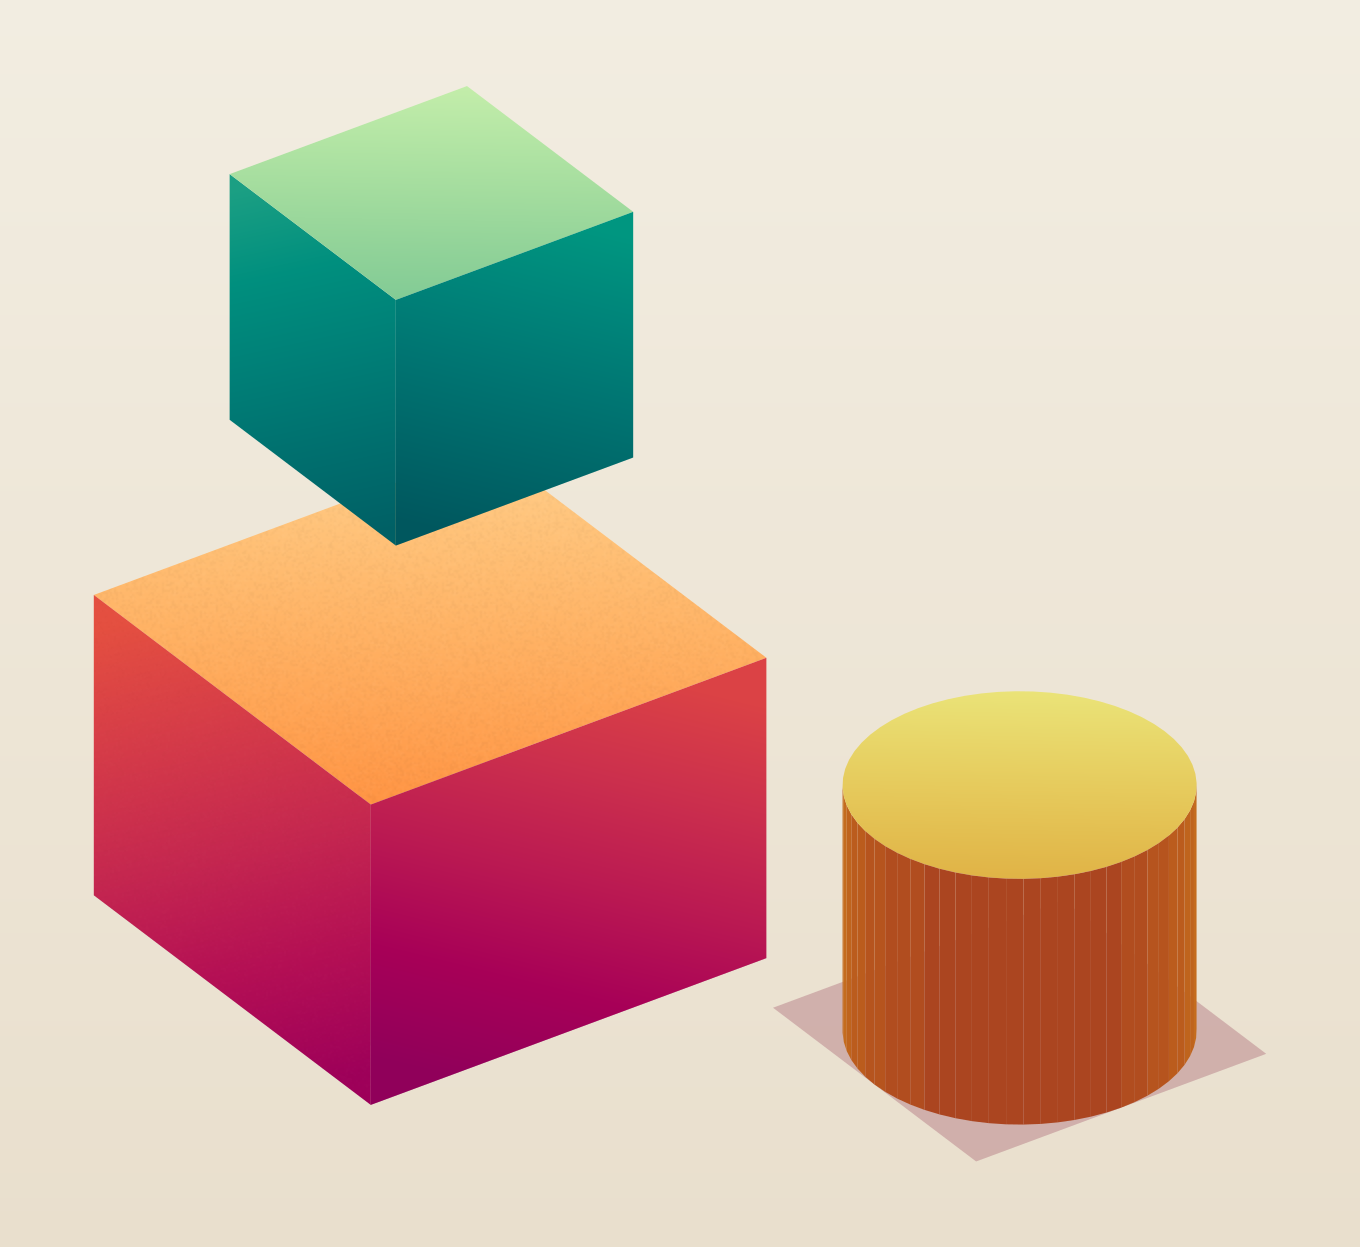
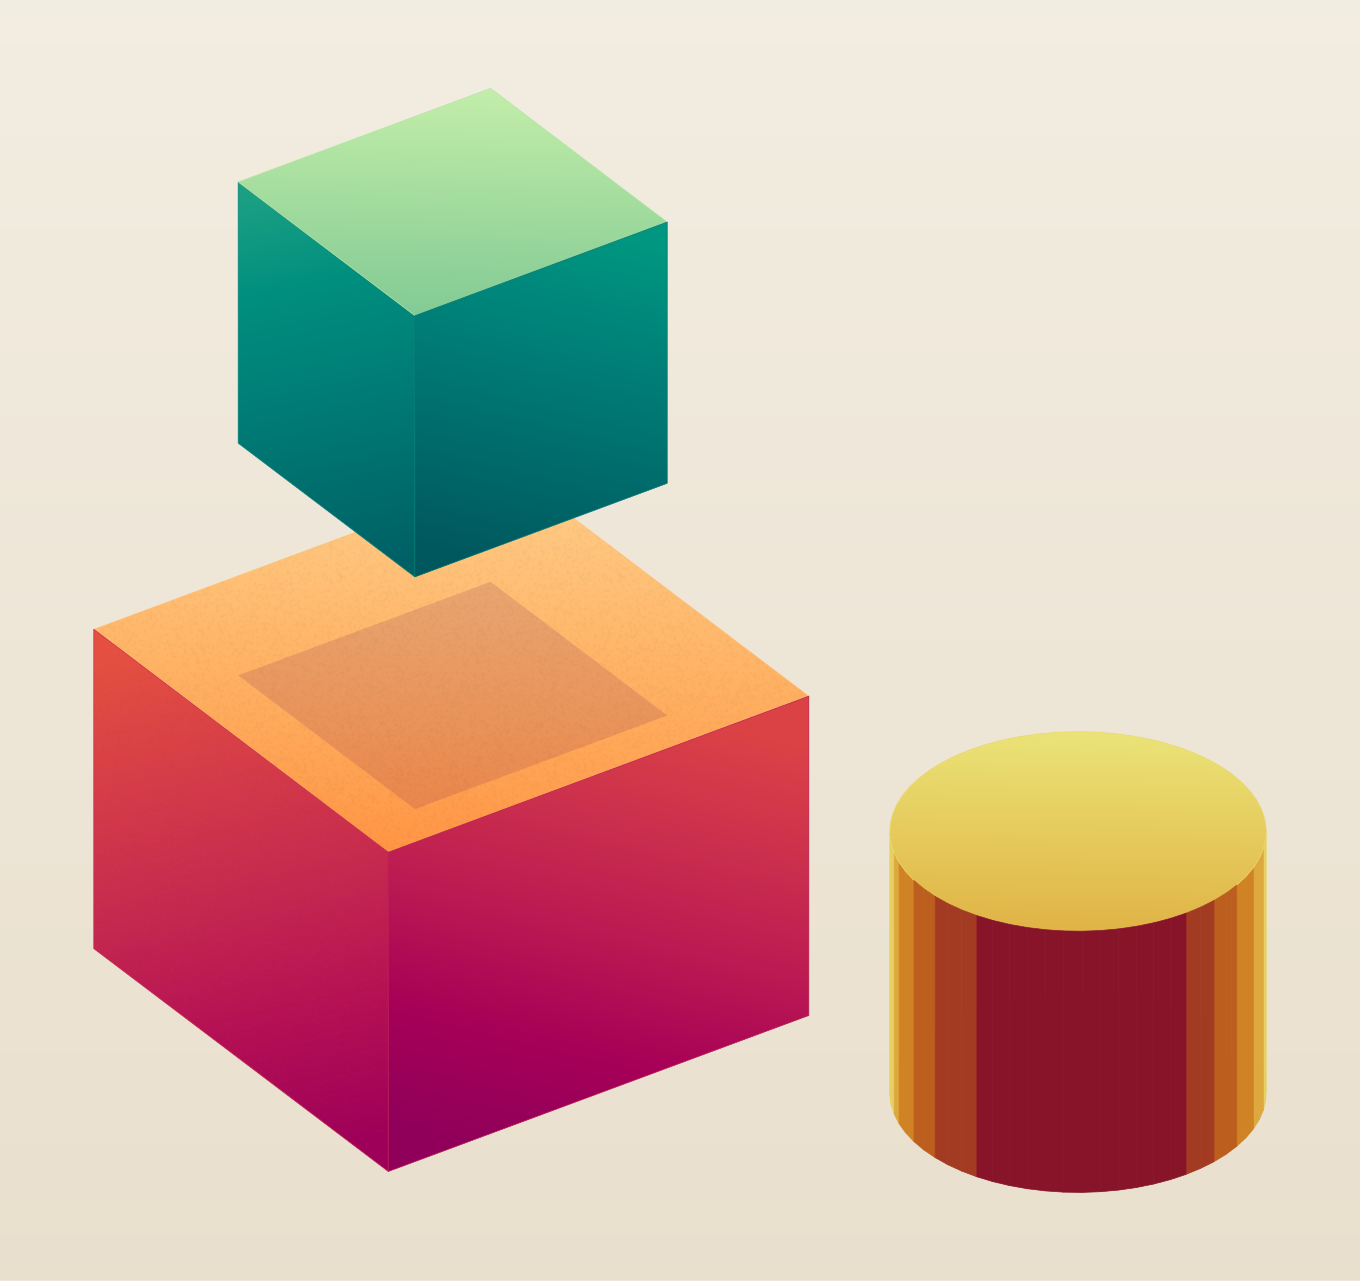
demo: gradient-shaded solids still life; seam seal, span banding, biased shadows
Cylinder posterizes the full ramp across its visible sweep; faces seal
with self-colored hairlines (no antialiasing pinstripes); drop_shadow
gains depth_bias so a floating solid shades the face below it. Gates
green; corpus regression untouched.

diff --git a/src/figlib/surface3d.py b/src/figlib/surface3d.py
@@ -257,19 +257,30 @@ def as_floor(group: list[tuple[float, object]]) -> list[tuple[float, object]]:
 
 def drop_shadow(pts3: np.ndarray, cam: Camera, z0: float = 0.0,
                 opacity: float = 0.16, color: str | None = None,
-                role: Role = Role.MUTED) -> list[tuple[float, FilledCurve]]:
+                role: Role = Role.MUTED,
+                depth_bias: float | None = None) -> list[tuple[float, FilledCurve]]:
     """Contact shadow: the convex hull of the geometry's vertical footprint
     on the plane z=z0, projected and depth-tagged strictly behind every
     point of the geometry — the cue that places a floating object ON its
-    floor (compose() after as_floor ground, before the object)."""
+    floor (compose() after as_floor ground, before the object).
+
+    depth_bias=None keeps that strictly-behind tag. A positive value tags
+    the shadow at its own mean depth + bias instead — for a shadow cast
+    onto another object's TOP FACE (same plane, so same mean depth): the
+    bias paints it over its carrier face, while the caster above remains
+    strictly nearer.
+    """
     from scipy.spatial import ConvexHull
 
     pts3 = np.asarray(pts3, dtype=float)
     foot = pts3[ConvexHull(pts3[:, :2]).vertices, :2]
     shadow3 = np.column_stack([foot, np.full(len(foot), z0)])
     pts2, depth = project(shadow3, cam)
-    # min footprint depth <= min object depth (same xy, z above the floor
-    # for elev > 0), so this tag paints before every object quad
-    tag = float(depth.min()) - 1e-3 * (float(np.ptp(depth)) + 1e-9)
+    if depth_bias is not None:
+        tag = float(depth.mean()) + depth_bias
+    else:
+        # min footprint depth <= min object depth (same xy, z above the
+        # floor for elev > 0), so this tag paints before every object quad
+        tag = float(depth.min()) - 1e-3 * (float(np.ptp(depth)) + 1e-9)
     return [(tag, FilledCurve(pts2, role=role, opacity=opacity,
                               outline=False, color=color))]

diff --git a/figures/demo_solids_gradient.py b/figures/demo_solids_gradient.py
@@ -48,13 +48,17 @@ def _box_verts(center, size):
 
 def compute(p):
     cyl = p["cyl"]
+    cx, cy, cz = cyl["center"]
+    th = np.linspace(0.0, 2 * np.pi, p["facets"], endpoint=False)
+    rim = np.column_stack([cx + cyl["radius"] * np.cos(th),
+                           cy + cyl["radius"] * np.sin(th),
+                           np.full(p["facets"], cz - cyl["height"] / 2)])
     return {
         "params": p,
-        "cyl_verts": _box_verts(cyl["center"],
-                                (2 * cyl["radius"], 2 * cyl["radius"],
-                                 cyl["height"])),
+        "cyl_rim": rim,
         "lo_verts": _box_verts(**p["box_lo"]),
         "hi_verts": _box_verts(**p["box_hi"]),
+        "lo_top": p["box_lo"]["center"][2] + p["box_lo"]["size"][2] / 2,
     }
 
 
@@ -80,8 +84,11 @@ def build(g):
     lo, hi, cyl = p["box_lo"], p["box_hi"], p["cyl"]
     items = compose(
         drop_shadow(g["lo_verts"], cam, color=ramp_brick(0.0), opacity=0.22),
-        drop_shadow(g["hi_verts"], cam, color=ramp_indigo(0.0), opacity=0.14),
-        drop_shadow(g["cyl_verts"], cam, color=ramp_ochre(0.0), opacity=0.22),
+        # the floating box shades the box below it, not the floor: cast
+        # onto the lower box's top plane, biased to paint over that face
+        drop_shadow(g["hi_verts"], cam, z0=g["lo_top"],
+                    color=ramp_brick(0.0), opacity=0.14, depth_bias=0.05),
+        drop_shadow(g["cyl_rim"], cam, color=ramp_ochre(0.0), opacity=0.22),
         box_items(lo["center"], lo["size"], cam, ramp_brick,
                   side_grad_amp=amp, cap_grad_amp=amp, grain=p["grain"]),
         box_items(hi["center"], hi["size"], cam, ramp_indigo,

diff --git a/src/figlib/shading.py b/src/figlib/shading.py
@@ -54,10 +54,12 @@ def quantize(ramp: Ramp, bands: int,
              span: tuple[float, float] = (0.0, 1.0)) -> Ramp:
     """Posterize a ramp into exactly `bands` steps sampled at band centers.
 
-    `span` sets the t-interval the bands divide. The default is the whole
-    ramp; a caller that knows its geometry's actual tonal sweep (e.g. a
-    cylinder's visible facets) passes that sweep, so all `bands` steps
-    land inside what is actually drawn instead of mostly off-screen.
+    `span` sets the t-interval the bands DIVIDE; the colors always sample
+    the ramp's full [0, 1]. A caller that knows its geometry's actual
+    tonal sweep (e.g. a cylinder's visible facets, t in [0.3, 0.5])
+    passes that sweep — the posterized look wants the whole ramp
+    stretched across what is drawn, not three near-identical steps cut
+    from its middle.
     """
     if bands < 2:
         raise ValueError(f"bands must be >= 2, got {bands}")
@@ -67,6 +69,6 @@ def quantize(ramp: Ramp, bands: int,
     def q(t: float) -> str:
         u = min(max((float(t) - s0) / w, 0.0), 1.0)
         k = min(int(u * bands), bands - 1)
-        return ramp(s0 + (k + 0.5) / bands * w)
+        return ramp((k + 0.5) / bands)
 
     return q

diff --git a/tests/test_shadow3d.py b/tests/test_shadow3d.py
@@ -39,6 +39,22 @@ class TestDropShadow:
         assert isinstance(ordered[0], FilledCurve)
         assert ordered[0] is shadow[0][1], "shadow must paint first"
 
+    def test_shadow_with_depth_bias_paints_over_its_carrier_plane(self):
+        # a floating object's shadow cast onto another object's top face
+        # must paint AFTER that face (else the face hides it) but BEFORE
+        # the floating object itself
+        cam = Camera()
+        top = np.array([[-1, -1, 1], [1, -1, 1], [1, 1, 1], [-1, 1, 1]],
+                       dtype=float)
+        floater = np.array([[x, y, z] for x in (-0.4, 0.4)
+                            for y in (-0.4, 0.4) for z in (2.0, 2.8)])
+        from figlib.solids import face_item
+        carrier = face_item(top, cam, lambda t: "#888888")
+        shadow = drop_shadow(floater, cam, z0=1.0, depth_bias=0.05)
+        d_face = carrier[0]
+        d_shadow = shadow[0][0]
+        assert d_face < d_shadow, "shadow must paint after its carrier face"
+
     def test_shadow_is_a_soft_flat_patch(self):
         X, Y, Z = _paraboloid()
         pts3 = np.column_stack([X.ravel(), Y.ravel(), Z.ravel()])

diff --git a/src/figlib/solids.py b/src/figlib/solids.py
@@ -67,10 +67,15 @@ def face_item(poly3: np.ndarray, cam: Camera, ramp: Ramp, *,
                     grad = Gradient.from_ramp(ramp, tuple(axis2[0]),
                                               tuple(axis2[1]),
                                               t_range=(lo, hi), n=stops)
+    fill = ramp(t)
+    # edge=None seals each face with a hairline of its own base color:
+    # adjacent facets otherwise leave antialiasing seams (paper-colored
+    # pinstripes down a faceted cylinder)
     return (float(depth.mean()), FilledCurve(
         pts2, role=Role.CONTENT, opacity=1.0, outline=False,
-        color=ramp(t), gradient=grad, grain=grain,
-        edge_color=edge, edge_width=edge_width if edge else None))
+        color=fill, gradient=grad, grain=grain,
+        edge_color=edge if edge is not None else fill,
+        edge_width=edge_width))
 
 
 def extrude_items(poly2: np.ndarray, z0: float, z1: float, cam: Camera,
